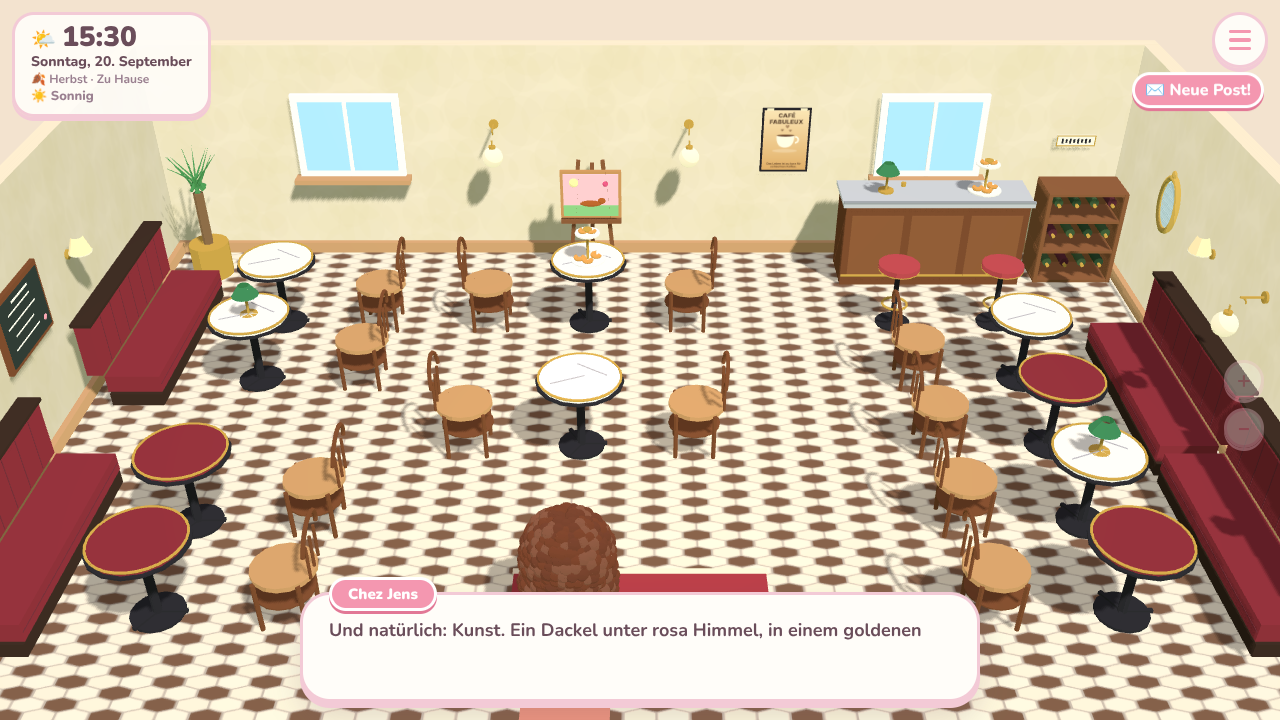
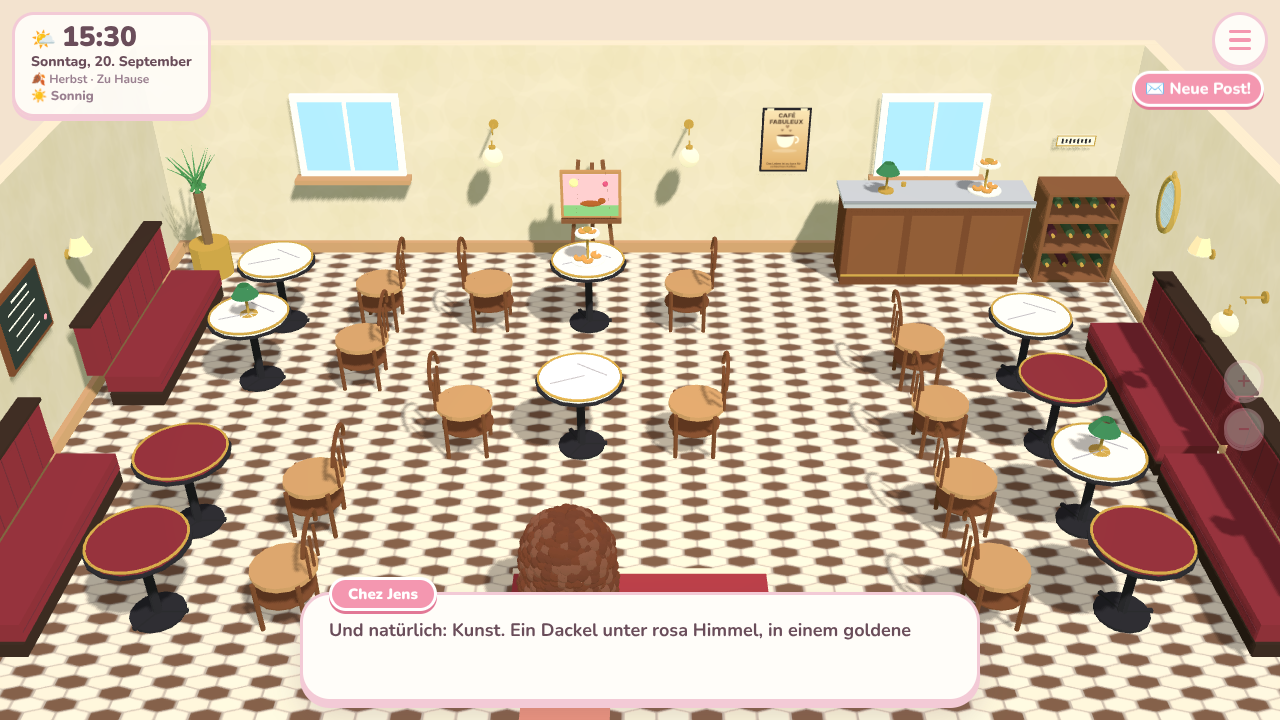
Café: rote Barhocker entfernt (versperrten den Weg zum Weinregal) (#139)
Claude-Session: https://claude.ai/code/session_01ThTYhPHTkGtFy4ue8CC8z3

Changed region(s): [[0.6562, 0.3361, 0.8125, 0.4583], [0.875, 0.0917, 1.0, 0.1528]]

diff --git a/src/data/gastHaeuser.ts b/src/data/gastHaeuser.ts
@@ -219,8 +219,6 @@ export const GUEST_HOUSES: Readonly<Record<string, GuestHouse>> = {
       { id: 'zinktheke', x: 7, y: 0 },
       { id: 'bistrolampe', x: 7, y: 0, on: 'zinktheke' },
       { id: 'etagere', x: 8, y: 0, on: 'zinktheke' },
-      { id: 'barhocker', x: 7, y: 1 },
-      { id: 'barhocker', x: 8, y: 1 },
       { id: 'weinregal', x: 9, y: 0 },
       { id: 'yucca', x: 0, y: 0 },
       // --- linke Wandbank mit vier Tischen
@@ -274,7 +272,6 @@ export const GUEST_HOUSES: Readonly<Record<string, GuestHouse>> = {
     comments: {
       zinktheke: ['Der Tresen glänzt. Jens poliert ihn jeden Morgen. Und redet dabei mit sich selbst auf Französisch.'],
       bistrolampe: ['Die grüne Lampe wirft ein warmes Licht. Ich würde hier einziehen. Aber ohne Croissants wär ich bald dick.'],
-      barhocker: ['Die Barhocker drehen sich. Ich drehe mich einmal. Nur einmal. Zweimal.'],
       bistrotisch: ['Ein runder Tisch mit Messingrand. Zwei Croissants passen drauf, ein Kaffee sowieso.'],
       etagere: ['Eine Etagere mit Croissants. Jens sagt: „Eins ist für dich.“ Es sind immer drei.'],
       bistrostuhl: ['Ein Bugholzstuhl. Der wackelt nicht. Jens schwört darauf.'],

diff --git a/docs/game-mechanics.md b/docs/game-mechanics.md
@@ -228,7 +228,7 @@ Wetter und Feste laufen nach echter Zeit.
 - **Schummrig werden (Nov. 2026):** Lina kann am **Tresen** (Café bei Jens, auch ein eigener Zinktresen), am **Retro-Kühlschrank** (Bier, Cola Zero, Wasser) und am **Weinregal** ein Glas Bier oder Wein trinken (aufs Haus, keine Kosten). Dann wird sie **schummrig**: Das Bild wird unscharf und wackelt leicht, sie torkelt (Laufrichtung pendelt, Körper schwankt) und ist etwas langsamer (`core/tipsy.ts`, `World3D.updateTipsy`, `Character3D.drift/lean`). Ein Glas lässt **nach etwa einer Minute Spielzeit** von selbst nach (weich, ohne Sprung; Zeiten in Sekunden, wie `session.playTime()`); nach drei Gläsern in kurzer Zeit lehnt Lina selbst ab („lieber ein Wasser“), und **Wasser macht sofort wieder klar**. Gelegentlich ein „*Hicks*“, am Ende „Die Welt steht wieder gerade“. Nichts wird gespeichert, es gibt keine Statistik, keinen Bonus, keine Folgen. **Die Bewohner merken es:** Spricht Lina angetrunken mit Olaf, Christin, Oma, Jens, Lars, Thalia oder Oli, kommentiert die Figur das liebevoll in ihrer eigenen Stimme (zwei Stufen: beschwipst / schummrig, `TIPSY_NPC_LINES`, `game/tipsy.ts → tipsyComment`; höchstens alle 25 s je Bewohner, steht vor der Begrüßung bzw. dem Plauderspruch). Texte: `data/tipsy.ts`.
 - **Musik draußen wechselt seltener (Nov. 2026):** Jedes Lied wird dreimal gespielt (leicht variiert, `SONG_ROUNDS`), bevor das nächste kommt (~2–3 Minuten statt ~50 s). Orts-Themen (an Häusern vorbei), Wetter und Tageszeit wechseln nur noch gedämpft (`gateMood`): erst wenn der Wunsch 20 s anhält und das aktuelle Lied mindestens 75 s lief. Rein/raus aus dem Haus und Party bleiben sofort.
 - **Hundebett:** Winstons Körbchen (`hundekoerbchen`) wird an der Werkbank gebaut (6 Äste + 2 Wildblumen); das Rezept bekommt Lina von Oma Gisela (2. Herz, Brief „Für den kleinen Herrn“). Drinnen legt sich Winston hinein, wenn Lina sich hinsetzt, eine Weile steht oder nachts.
-- **Chez Jens neu gestaltet (Nov. 2026):** Das Café von innen ist jetzt ein **10 × 7**-Raum (`guestLayout` in `data/gastHaeuser.ts`, eigener Grundriss je Haus) nach dem Vorbild eines Pariser Cafés: **Café-Mosaik** (Sechseck-Steinchen, Bodenmuster `hexmosaik`), cremefarbener **Café-Putz**, **zwei Wandbänke** (`bistrobank`) links und rechts, **10 runde Tische** mit Messingrand (`bistrotisch`, jetzt auch in Bordeaux/Schwarz/Salbei) mit Bugholzstühlen, Zinktresen mit Hockern, Kugel- und Messing-Wandleuchten, Kreidetafel, Café-Poster, Spiegel und dem „TOILETTE“-Schild. Neu im Bistro-Katalog (auch zum Kaufen): **Bordeaux-Bank** (1 200 ⭐), **Kugel-Wandleuchte** (520), **Messing-Wandleuchte** (380), **Emailleschild „TOILETTE“** (150), **Café-Mosaik** (950) und **Café-Putz** (700). Der Tisch behält seine alte ID (`baseVariant: 'marmor'`), alte Spielstände bleiben gültig.
+- **Chez Jens neu gestaltet (Nov. 2026):** Das Café von innen ist jetzt ein **10 × 7**-Raum (`guestLayout` in `data/gastHaeuser.ts`, eigener Grundriss je Haus) nach dem Vorbild eines Pariser Cafés: **Café-Mosaik** (Sechseck-Steinchen, Bodenmuster `hexmosaik`), cremefarbener **Café-Putz**, **zwei Wandbänke** (`bistrobank`) links und rechts, **10 runde Tische** mit Messingrand (`bistrotisch`, jetzt auch in Bordeaux/Schwarz/Salbei) mit Bugholzstühlen, Zinktresen (davor bleibt frei, damit man das Weinregal erreicht), Kugel- und Messing-Wandleuchten, Kreidetafel, Café-Poster, Spiegel und dem „TOILETTE“-Schild. Neu im Bistro-Katalog (auch zum Kaufen): **Bordeaux-Bank** (1 200 ⭐), **Kugel-Wandleuchte** (520), **Messing-Wandleuchte** (380), **Emailleschild „TOILETTE“** (150), **Café-Mosaik** (950) und **Café-Putz** (700). Der Tisch behält seine alte ID (`baseVariant: 'marmor'`), alte Spielstände bleiben gültig.
 - **Mehr Farbvarianten:** Auch Sofa, Bett, Loungesofa, Sitzsack, Zabuton & Co. haben jetzt 4–7 Farben, dazu neu: Stehlampe, Holzregal, Wandregal, Landhaustisch, Häkel- und Orientteppich, Nierentisch, Fransenlampe, Bugholzstuhl, Barhocker, Bistro-Tischlampe, Gartenbank. Die Farbe wechselt man beim Einrichten kostenlos mit **V oder 1–9** (Pipette `C` übernimmt sie). Technik: `FurnitureDef.baseVariant` – die ursprüngliche Farbe behält die alte Gegenstands-ID (`stehlampe`), die übrigen heißen `stehlampe-weiss` …; dadurch bleiben Spielstände, Rezepte und Wünsche gültig. Nur Katalogmöbel bekommen Farben (Geschenke/Handgemachtes nicht, sonst wären Farben unerreichbar).
 - **Garten gestalten – dieselbe Kamera-Steuerung:** Auch draußen bleibt Lina beim Gestalten stehen; WASD/Pfeile oder Maus ziehen schwenken die Kamera (innerhalb des Gartenbereichs), das Mausrad zoomt (`decorPan`/`setDecorPan` in `World3D`).
 - **Türen:** Haustür und Durchgänge sind **ein Feld breit** (`data/house.ts`, `frontDoor`); Möbel dürfen links und rechts davon stehen. Treppen bleiben zwei Felder breit.
